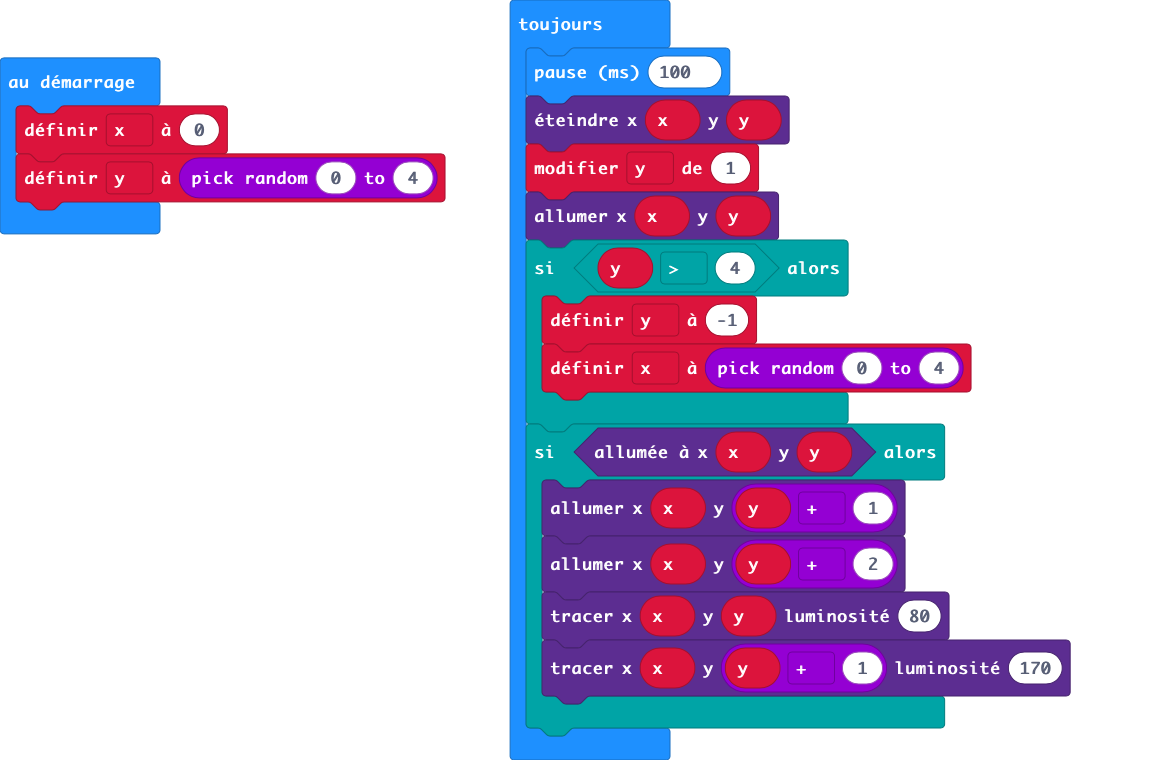
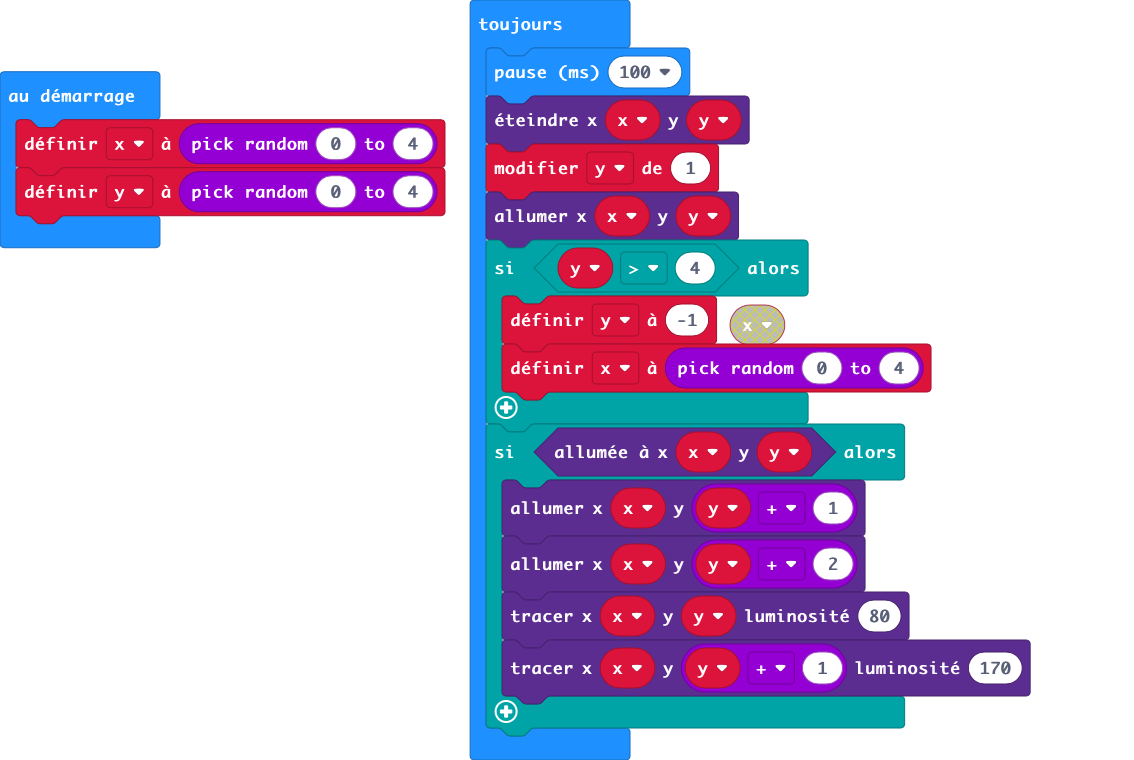
Mise à jour main.blocks, main.ts

Changed region(s): [[0.0, 0.0, 0.9259, 1.0], [0.5556, 0.9382, 0.5864, 1.0]]

diff --git a/main.ts b/main.ts
@@ -1,4 +1,4 @@
-let x = 0
+let x = randint(0, 4)
 let y = randint(0, 4)
 basic.forever(function () {
     basic.pause(100)
